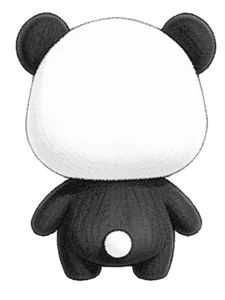
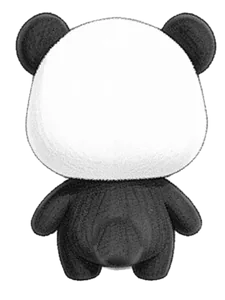
Miniroom: steady panda back (no blinking tail), held items shown in front from the front view

Changed region(s): [[0.4044, 0.72, 0.6533, 0.9]]

diff --git a/public/js/views.js b/public/js/views.js
@@ -32,16 +32,16 @@ const DRAWN_EYES = {
 // 미니룸 전신 캐릭터: 앞(f)·옆(s, 오른쪽을 봄)·뒤(b) × 서 있기(0)·걷기 두 장(a, b). 모두 같은 캔버스라 바꿔 끼워도 자리가 같다
 //   fit: 앞모습 꾸미기 자리(얼굴 그림과 같은 순서), head: 보기마다 머리 가운데·폭, hand: 보기마다 손 끝 (그림 너비·높이에 대한 비율)
 const MR_BODY = {
-  '🐰': {"w": 184, "h": 300, "img": {"f0": "img/room/c-1f430-f0.webp?v=1125b", "fa": "img/room/c-1f430-fa.webp?v=1125b", "fb": "img/room/c-1f430-fb.webp?v=1125b", "s0": "img/room/c-1f430-s0.webp?v=1125b", "sa": "img/room/c-1f430-sa.webp?v=1125b", "sb": "img/room/c-1f430-sb.webp?v=1125b", "b0": "img/room/c-1f430-b0.webp?v=1125b", "ba": "img/room/c-1f430-ba.webp?v=1125b", "bb": "img/room/c-1f430-bb.webp?v=1125b"}, "fit": [0.512, 0.325, 0.845, 0.514, 0.664], "head": {"front": [0.512, 0.845], "side": [0.546, 0.849], "back": [0.514, 0.841]}, "eyes": [0.314, 0.511, 0.693, 0.51, 0.036], "hand": {"front": [0.932, 0.81], "side": [0.707, 0.81], "back": [0.902, 0.81]}},
-  '🐻': {"w": 223, "h": 300, "img": {"f0": "img/room/c-1f43b-f0.webp?v=1125b", "fa": "img/room/c-1f43b-fa.webp?v=1125b", "fb": "img/room/c-1f43b-fb.webp?v=1125b", "s0": "img/room/c-1f43b-s0.webp?v=1125b", "sa": "img/room/c-1f43b-sa.webp?v=1125b", "sb": "img/room/c-1f43b-sb.webp?v=1125b", "b0": "img/room/c-1f43b-b0.webp?v=1125b", "ba": "img/room/c-1f43b-ba.webp?v=1125b", "bb": "img/room/c-1f43b-bb.webp?v=1125b"}, "fit": [0.479, 0.001, 0.91, 0.374, 0.654], "head": {"front": [0.479, 0.91], "side": [0.484, 0.907], "back": [0.486, 0.896]}, "eyes": [0.311, 0.383, 0.694, 0.379, 0.048], "hand": {"front": [0.918, 0.769], "side": [0.687, 0.769], "back": [0.885, 0.769]}},
-  '🦊': {"w": 238, "h": 300, "img": {"f0": "img/room/c-1f98a-f0.webp?v=1125b", "fa": "img/room/c-1f98a-fa.webp?v=1125b", "fb": "img/room/c-1f98a-fb.webp?v=1125b", "s0": "img/room/c-1f98a-s0.webp?v=1125b", "sa": "img/room/c-1f98a-sa.webp?v=1125b", "sb": "img/room/c-1f98a-sb.webp?v=1125b", "b0": "img/room/c-1f98a-b0.webp?v=1125b", "ba": "img/room/c-1f98a-ba.webp?v=1125b", "bb": "img/room/c-1f98a-bb.webp?v=1125b"}, "fit": [0.529, 0.144, 0.827, 0.45, 0.68], "head": {"front": [0.529, 0.827], "side": [0.613, 0.743], "back": [0.529, 0.827]}, "eyes": [0.386, 0.446, 0.685, 0.44, 0.029], "hand": {"front": [0.874, 0.78], "side": [0.664, 0.78], "back": [0.841, 0.78]}},
-  '🐼': {"w": 229, "h": 300, "img": {"f0": "img/room/c-1f43c-f0.webp?v=1125b", "fa": "img/room/c-1f43c-fa.webp?v=1125b", "fb": "img/room/c-1f43c-fb.webp?v=1125b", "s0": "img/room/c-1f43c-s0.webp?v=1125b", "sa": "img/room/c-1f43c-sa.webp?v=1125b", "sb": "img/room/c-1f43c-sb.webp?v=1125b", "b0": "img/room/c-1f43c-b0.webp?v=1125b", "ba": "img/room/c-1f43c-ba.webp?v=1125b", "bb": "img/room/c-1f43c-bb.webp?v=1125b"}, "fit": [0.519, 0.041, 0.879, 0.376, 0.621], "head": {"front": [0.519, 0.879], "side": [0.539, 0.879], "back": [0.521, 0.876]}, "eyes": [0.351, 0.377, 0.672, 0.377, 0.04], "hand": {"front": [0.932, 0.759], "side": [0.69, 0.759], "back": [0.899, 0.759]}},
-  '🐯': {"w": 237, "h": 300, "img": {"f0": "img/room/c-1f42f-f0.webp?v=1125b", "fa": "img/room/c-1f42f-fa.webp?v=1125b", "fb": "img/room/c-1f42f-fb.webp?v=1125b", "s0": "img/room/c-1f42f-s0.webp?v=1125b", "sa": "img/room/c-1f42f-sa.webp?v=1125b", "sb": "img/room/c-1f42f-sb.webp?v=1125b", "b0": "img/room/c-1f42f-b0.webp?v=1125b", "ba": "img/room/c-1f42f-ba.webp?v=1125b", "bb": "img/room/c-1f42f-bb.webp?v=1125b"}, "fit": [0.514, 0.031, 0.924, 0.361, 0.657], "head": {"front": [0.514, 0.924], "side": [0.498, 0.86], "back": [0.517, 0.924]}, "eyes": [0.354, 0.368, 0.685, 0.361, 0.052], "hand": {"front": [0.885, 0.782], "side": [0.684, 0.782], "back": [0.854, 0.782]}},
-  '🐨': {"w": 276, "h": 300, "img": {"f0": "img/room/c-1f428-f0.webp?v=1125b", "fa": "img/room/c-1f428-fa.webp?v=1125b", "fb": "img/room/c-1f428-fb.webp?v=1125b", "s0": "img/room/c-1f428-s0.webp?v=1125b", "sa": "img/room/c-1f428-sa.webp?v=1125b", "sb": "img/room/c-1f428-sb.webp?v=1125b", "b0": "img/room/c-1f428-b0.webp?v=1125b", "ba": "img/room/c-1f428-ba.webp?v=1125b", "bb": "img/room/c-1f428-bb.webp?v=1125b"}, "fit": [0.495, 0.079, 0.619, 0.4, 0.628], "head": {"front": [0.495, 0.619], "side": [0.629, 0.543], "back": [0.495, 0.615]}, "eyes": [0.351, 0.403, 0.637, 0.401, 0.027], "hand": {"front": [0.774, 0.791], "side": [0.573, 0.791], "back": [0.732, 0.791]}},
-  '🐸': {"w": 316, "h": 300, "img": {"f0": "img/room/c-1f438-f0.webp?v=1125b", "fa": "img/room/c-1f438-fa.webp?v=1125b", "fb": "img/room/c-1f438-fb.webp?v=1125b", "s0": "img/room/c-1f438-s0.webp?v=1125b", "sa": "img/room/c-1f438-sa.webp?v=1125b", "sb": "img/room/c-1f438-sb.webp?v=1125b", "b0": "img/room/c-1f438-b0.webp?v=1125b", "ba": "img/room/c-1f438-ba.webp?v=1125b", "bb": "img/room/c-1f438-bb.webp?v=1125b"}, "fit": [0.495, -0.102, 0.635, 0.132, 0.645], "head": {"front": [0.495, 0.635], "side": [0.53, 0.267], "back": [0.482, 0.672]}, "eyes": [0.281, 0.114, 0.714, 0.114, 0.06], "hand": {"front": [0.839, 0.754], "side": [0.613, 0.754], "back": [0.794, 0.754]}},
-  '🦁': {"w": 219, "h": 300, "img": {"f0": "img/room/c-1f981-f0.webp?v=1125b", "fa": "img/room/c-1f981-fa.webp?v=1125b", "fb": "img/room/c-1f981-fb.webp?v=1125b", "s0": "img/room/c-1f981-s0.webp?v=1125b", "sa": "img/room/c-1f981-sa.webp?v=1125b", "sb": "img/room/c-1f981-sb.webp?v=1125b", "b0": "img/room/c-1f981-b0.webp?v=1125b", "ba": "img/room/c-1f981-ba.webp?v=1125b", "bb": "img/room/c-1f981-bb.webp?v=1125b"}, "fit": [0.495, 0.052, 0.82, 0.399, 0.699], "head": {"front": [0.495, 0.82], "side": [0.471, 0.681], "back": [0.504, 0.805]}, "eyes": [0.363, 0.403, 0.629, 0.402, 0.036], "hand": {"front": [0.882, 0.597], "side": [0.68, 0.597], "back": [0.826, 0.597]}},
-  '🐧': {"w": 254, "h": 300, "img": {"f0": "img/room/c-1f427-f0.webp?v=1125b", "fa": "img/room/c-1f427-fa.webp?v=1125b", "fb": "img/room/c-1f427-fb.webp?v=1125b", "s0": "img/room/c-1f427-s0.webp?v=1125b", "sa": "img/room/c-1f427-sa.webp?v=1125b", "sb": "img/room/c-1f427-sb.webp?v=1125b", "b0": "img/room/c-1f427-b0.webp?v=1125b", "ba": "img/room/c-1f427-ba.webp?v=1125b", "bb": "img/room/c-1f427-bb.webp?v=1125b"}, "fit": [0.482, 0.014, 0.783, 0.345, 0.619], "head": {"front": [0.482, 0.783], "side": [0.516, 0.836], "back": [0.481, 0.78]}, "eyes": [0.303, 0.351, 0.692, 0.346, 0.03], "hand": {"front": [0.956, 0.72], "side": [0.693, 0.72], "back": [0.926, 0.72]}},
-  '🦄': {"w": 240, "h": 300, "img": {"f0": "img/room/c-1f984-f0.webp?v=1125b", "fa": "img/room/c-1f984-fa.webp?v=1125b", "fb": "img/room/c-1f984-fb.webp?v=1125b", "s0": "img/room/c-1f984-s0.webp?v=1125b", "sa": "img/room/c-1f984-sa.webp?v=1125b", "sb": "img/room/c-1f984-sb.webp?v=1125b", "b0": "img/room/c-1f984-b0.webp?v=1125b", "ba": "img/room/c-1f984-ba.webp?v=1125b", "bb": "img/room/c-1f984-bb.webp?v=1125b"}, "fit": [0.45, 0.214, 0.761, 0.487, 0.761], "head": {"front": [0.45, 0.761], "side": [0.47, 0.71], "back": [0.472, 0.693]}, "eyes": [0.3, 0.532, 0.616, 0.52, 0.032], "hand": {"front": [0.813, 0.798], "side": [0.606, 0.798], "back": [0.767, 0.798]}},
+  '🐰': {"w": 184, "h": 300, "img": {"f0": "img/room/c-1f430-f0.webp?v=1125c", "fa": "img/room/c-1f430-fa.webp?v=1125c", "fb": "img/room/c-1f430-fb.webp?v=1125c", "s0": "img/room/c-1f430-s0.webp?v=1125c", "sa": "img/room/c-1f430-sa.webp?v=1125c", "sb": "img/room/c-1f430-sb.webp?v=1125c", "b0": "img/room/c-1f430-b0.webp?v=1125c", "ba": "img/room/c-1f430-ba.webp?v=1125c", "bb": "img/room/c-1f430-bb.webp?v=1125c"}, "fit": [0.512, 0.325, 0.845, 0.514, 0.664], "head": {"front": [0.512, 0.845], "side": [0.546, 0.849], "back": [0.514, 0.841]}, "eyes": [0.314, 0.511, 0.693, 0.51, 0.036], "hand": {"front": [0.932, 0.81], "side": [0.707, 0.81], "back": [0.902, 0.81]}},
+  '🐻': {"w": 223, "h": 300, "img": {"f0": "img/room/c-1f43b-f0.webp?v=1125c", "fa": "img/room/c-1f43b-fa.webp?v=1125c", "fb": "img/room/c-1f43b-fb.webp?v=1125c", "s0": "img/room/c-1f43b-s0.webp?v=1125c", "sa": "img/room/c-1f43b-sa.webp?v=1125c", "sb": "img/room/c-1f43b-sb.webp?v=1125c", "b0": "img/room/c-1f43b-b0.webp?v=1125c", "ba": "img/room/c-1f43b-ba.webp?v=1125c", "bb": "img/room/c-1f43b-bb.webp?v=1125c"}, "fit": [0.479, 0.001, 0.91, 0.374, 0.654], "head": {"front": [0.479, 0.91], "side": [0.484, 0.907], "back": [0.486, 0.896]}, "eyes": [0.311, 0.383, 0.694, 0.379, 0.048], "hand": {"front": [0.918, 0.769], "side": [0.687, 0.769], "back": [0.885, 0.769]}},
+  '🦊': {"w": 238, "h": 300, "img": {"f0": "img/room/c-1f98a-f0.webp?v=1125c", "fa": "img/room/c-1f98a-fa.webp?v=1125c", "fb": "img/room/c-1f98a-fb.webp?v=1125c", "s0": "img/room/c-1f98a-s0.webp?v=1125c", "sa": "img/room/c-1f98a-sa.webp?v=1125c", "sb": "img/room/c-1f98a-sb.webp?v=1125c", "b0": "img/room/c-1f98a-b0.webp?v=1125c", "ba": "img/room/c-1f98a-ba.webp?v=1125c", "bb": "img/room/c-1f98a-bb.webp?v=1125c"}, "fit": [0.529, 0.144, 0.827, 0.45, 0.68], "head": {"front": [0.529, 0.827], "side": [0.613, 0.743], "back": [0.529, 0.827]}, "eyes": [0.386, 0.446, 0.685, 0.44, 0.029], "hand": {"front": [0.874, 0.78], "side": [0.664, 0.78], "back": [0.841, 0.78]}},
+  '🐼': {"w": 229, "h": 300, "img": {"f0": "img/room/c-1f43c-f0.webp?v=1125c", "fa": "img/room/c-1f43c-fa.webp?v=1125c", "fb": "img/room/c-1f43c-fb.webp?v=1125c", "s0": "img/room/c-1f43c-s0.webp?v=1125c", "sa": "img/room/c-1f43c-sa.webp?v=1125c", "sb": "img/room/c-1f43c-sb.webp?v=1125c", "b0": "img/room/c-1f43c-b0.webp?v=1125c", "ba": "img/room/c-1f43c-ba.webp?v=1125c", "bb": "img/room/c-1f43c-bb.webp?v=1125c"}, "fit": [0.519, 0.041, 0.879, 0.376, 0.621], "head": {"front": [0.519, 0.879], "side": [0.539, 0.879], "back": [0.521, 0.876]}, "eyes": [0.351, 0.377, 0.672, 0.377, 0.04], "hand": {"front": [0.932, 0.759], "side": [0.69, 0.759], "back": [0.899, 0.759]}},
+  '🐯': {"w": 237, "h": 300, "img": {"f0": "img/room/c-1f42f-f0.webp?v=1125c", "fa": "img/room/c-1f42f-fa.webp?v=1125c", "fb": "img/room/c-1f42f-fb.webp?v=1125c", "s0": "img/room/c-1f42f-s0.webp?v=1125c", "sa": "img/room/c-1f42f-sa.webp?v=1125c", "sb": "img/room/c-1f42f-sb.webp?v=1125c", "b0": "img/room/c-1f42f-b0.webp?v=1125c", "ba": "img/room/c-1f42f-ba.webp?v=1125c", "bb": "img/room/c-1f42f-bb.webp?v=1125c"}, "fit": [0.514, 0.031, 0.924, 0.361, 0.657], "head": {"front": [0.514, 0.924], "side": [0.498, 0.86], "back": [0.517, 0.924]}, "eyes": [0.354, 0.368, 0.685, 0.361, 0.052], "hand": {"front": [0.885, 0.782], "side": [0.684, 0.782], "back": [0.854, 0.782]}},
+  '🐨': {"w": 276, "h": 300, "img": {"f0": "img/room/c-1f428-f0.webp?v=1125c", "fa": "img/room/c-1f428-fa.webp?v=1125c", "fb": "img/room/c-1f428-fb.webp?v=1125c", "s0": "img/room/c-1f428-s0.webp?v=1125c", "sa": "img/room/c-1f428-sa.webp?v=1125c", "sb": "img/room/c-1f428-sb.webp?v=1125c", "b0": "img/room/c-1f428-b0.webp?v=1125c", "ba": "img/room/c-1f428-ba.webp?v=1125c", "bb": "img/room/c-1f428-bb.webp?v=1125c"}, "fit": [0.495, 0.079, 0.619, 0.4, 0.628], "head": {"front": [0.495, 0.619], "side": [0.629, 0.543], "back": [0.495, 0.615]}, "eyes": [0.351, 0.403, 0.637, 0.401, 0.027], "hand": {"front": [0.774, 0.791], "side": [0.573, 0.791], "back": [0.732, 0.791]}},
+  '🐸': {"w": 316, "h": 300, "img": {"f0": "img/room/c-1f438-f0.webp?v=1125c", "fa": "img/room/c-1f438-fa.webp?v=1125c", "fb": "img/room/c-1f438-fb.webp?v=1125c", "s0": "img/room/c-1f438-s0.webp?v=1125c", "sa": "img/room/c-1f438-sa.webp?v=1125c", "sb": "img/room/c-1f438-sb.webp?v=1125c", "b0": "img/room/c-1f438-b0.webp?v=1125c", "ba": "img/room/c-1f438-ba.webp?v=1125c", "bb": "img/room/c-1f438-bb.webp?v=1125c"}, "fit": [0.495, -0.102, 0.635, 0.132, 0.645], "head": {"front": [0.495, 0.635], "side": [0.53, 0.267], "back": [0.482, 0.672]}, "eyes": [0.281, 0.114, 0.714, 0.114, 0.06], "hand": {"front": [0.839, 0.754], "side": [0.613, 0.754], "back": [0.794, 0.754]}},
+  '🦁': {"w": 219, "h": 300, "img": {"f0": "img/room/c-1f981-f0.webp?v=1125c", "fa": "img/room/c-1f981-fa.webp?v=1125c", "fb": "img/room/c-1f981-fb.webp?v=1125c", "s0": "img/room/c-1f981-s0.webp?v=1125c", "sa": "img/room/c-1f981-sa.webp?v=1125c", "sb": "img/room/c-1f981-sb.webp?v=1125c", "b0": "img/room/c-1f981-b0.webp?v=1125c", "ba": "img/room/c-1f981-ba.webp?v=1125c", "bb": "img/room/c-1f981-bb.webp?v=1125c"}, "fit": [0.495, 0.052, 0.82, 0.399, 0.699], "head": {"front": [0.495, 0.82], "side": [0.471, 0.681], "back": [0.504, 0.805]}, "eyes": [0.363, 0.403, 0.629, 0.402, 0.036], "hand": {"front": [0.882, 0.597], "side": [0.68, 0.597], "back": [0.826, 0.597]}},
+  '🐧': {"w": 254, "h": 300, "img": {"f0": "img/room/c-1f427-f0.webp?v=1125c", "fa": "img/room/c-1f427-fa.webp?v=1125c", "fb": "img/room/c-1f427-fb.webp?v=1125c", "s0": "img/room/c-1f427-s0.webp?v=1125c", "sa": "img/room/c-1f427-sa.webp?v=1125c", "sb": "img/room/c-1f427-sb.webp?v=1125c", "b0": "img/room/c-1f427-b0.webp?v=1125c", "ba": "img/room/c-1f427-ba.webp?v=1125c", "bb": "img/room/c-1f427-bb.webp?v=1125c"}, "fit": [0.482, 0.014, 0.783, 0.345, 0.619], "head": {"front": [0.482, 0.783], "side": [0.516, 0.836], "back": [0.481, 0.78]}, "eyes": [0.303, 0.351, 0.692, 0.346, 0.03], "hand": {"front": [0.956, 0.72], "side": [0.693, 0.72], "back": [0.926, 0.72]}},
+  '🦄': {"w": 240, "h": 300, "img": {"f0": "img/room/c-1f984-f0.webp?v=1125c", "fa": "img/room/c-1f984-fa.webp?v=1125c", "fb": "img/room/c-1f984-fb.webp?v=1125c", "s0": "img/room/c-1f984-s0.webp?v=1125c", "sa": "img/room/c-1f984-sa.webp?v=1125c", "sb": "img/room/c-1f984-sb.webp?v=1125c", "b0": "img/room/c-1f984-b0.webp?v=1125c", "ba": "img/room/c-1f984-ba.webp?v=1125c", "bb": "img/room/c-1f984-bb.webp?v=1125c"}, "fit": [0.45, 0.214, 0.761, 0.487, 0.761], "head": {"front": [0.45, 0.761], "side": [0.47, 0.71], "back": [0.472, 0.693]}, "eyes": [0.3, 0.532, 0.616, 0.52, 0.032], "hand": {"front": [0.813, 0.798], "side": [0.606, 0.798], "back": [0.767, 0.798]}},
 };
 // 손 아이템을 쥐는 자리 (아이템 그림에 대한 비율, style.css 의 .paw 자리와 같다)
 const MR_GRIP = { 'acc-lollipop': [50, 70], 'acc-wand': [62, 66], 'acc-balloon': [50, 92], 'acc-teddy': [18, 58], 'acc-icecream': [50, 80], 'acc-sunflower': [50, 74], 'acc-bubbles': [14, 88] };

diff --git a/public/css/style.css b/public/css/style.css
@@ -1523,3 +1523,5 @@ a.shop-ava { display: block; }
 .mr-say { font-size: clamp(.7rem, 2vw, .95rem); padding: 3px 8px; }
 /* 방 꾸미기 아이템 방향: 놓은 쪽 벽에 맞게 좌우 뒤집기(--fx)와 벽 따라 살짝 비틀기(--lean) */
 .mr-f.floor img { transform: scaleX(var(--fx, 1)) skewY(var(--lean, 0deg)); transition: transform .2s; }
+/* 정면에서는 손에 든 아이템이 몸 앞에 보이게 (뒷모습·오른쪽을 볼 때만 몸 뒤로) */
+.avatar.drawn.mr-ava[data-view="front"] .acc-hand { z-index: 3; }
